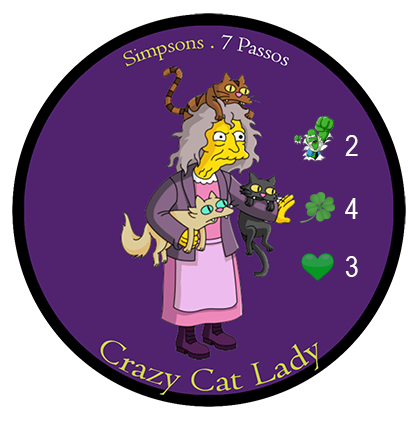
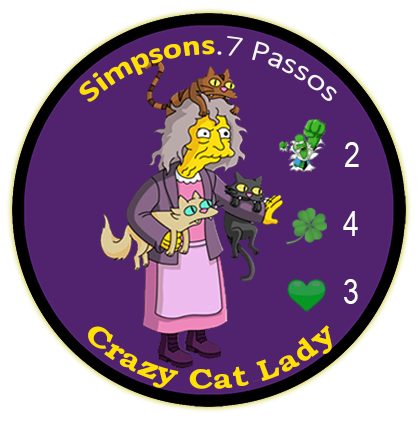
Alterado visual do botao e os Chars na escolha de chars. Alterado os Headers e texto.

diff --git a/SetepassosPRJ/wwwroot/css/site.css b/SetepassosPRJ/wwwroot/css/site.css
@@ -5,19 +5,21 @@ body {
     padding-bottom: 10px;
     color: ghostwhite;
     font-family: Verdana, Arial, Helvetica, sans-serif;
-    font-size: 14px;
+    font-size: 19px;
+    letter-spacing: 1px;
 }
 
 
 .BotaoIniciar {
     height: 25%;
     width: 25%;
+    filter: brightness(1.4);
 }
 
 .BotaoIniciar:hover {
     height: 26%;
     width: 26%;
-    filter: brightness(1.4);
+    filter: brightness(1.6);
 }
 
 .BotaoJogar:hover {
@@ -74,6 +76,11 @@ body {
 .charpick {
    width: 22%;
    height: 22%;
+}
+.ArrangeChars {
+    display: inline-block;
+    margin-right: 2%;
+    font-size: 70%;
 }
 
 .BotoesJogo {
@@ -214,4 +221,21 @@ input[type='radio'] {
     display: inline-block;
     right:80px;
     margin-top:50px;
+}
+
+/* headers com estilo */
+h1 {
+    color: gold;
+    text-decoration: underline;
+    letter-spacing: 2px;
+    text-shadow: 0px 0px 2px cyan;
+}
+h2 {
+    color: gainsboro;
+    letter-spacing: 1px;
+    text-shadow: 0px 0px 2px black;
+}
+
+h3 {
+    color: darkcyan;
 }
